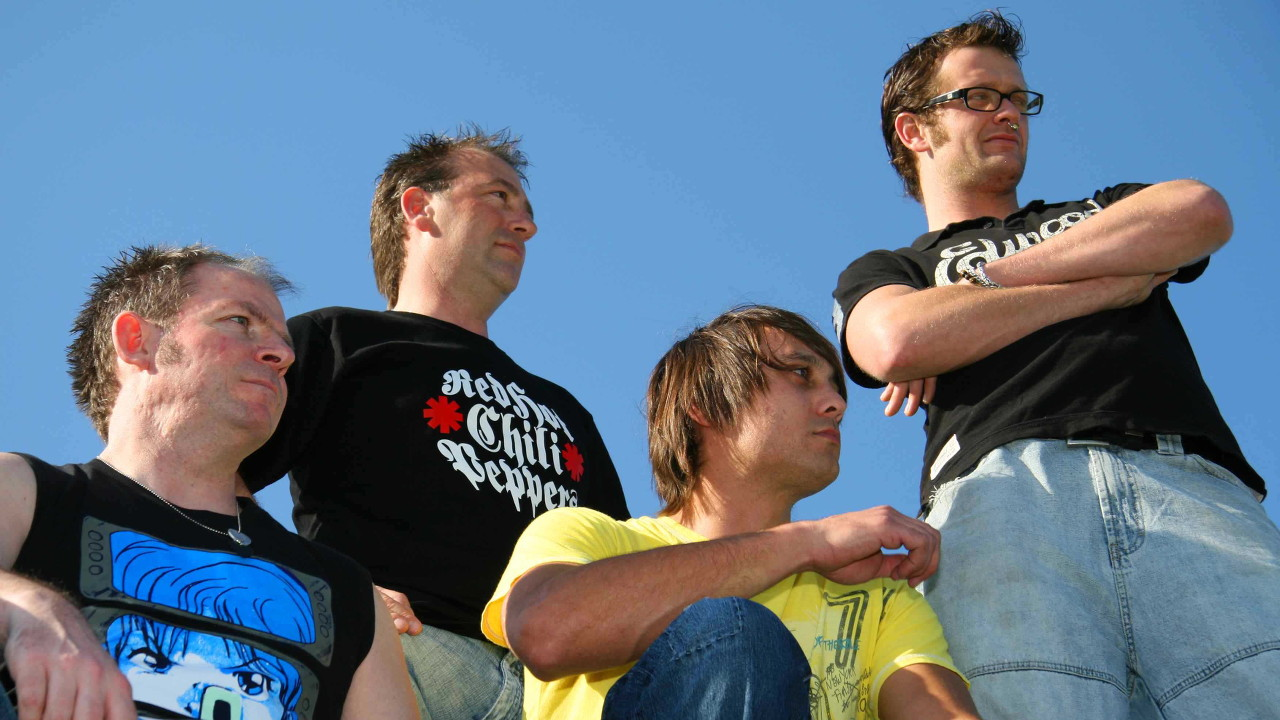
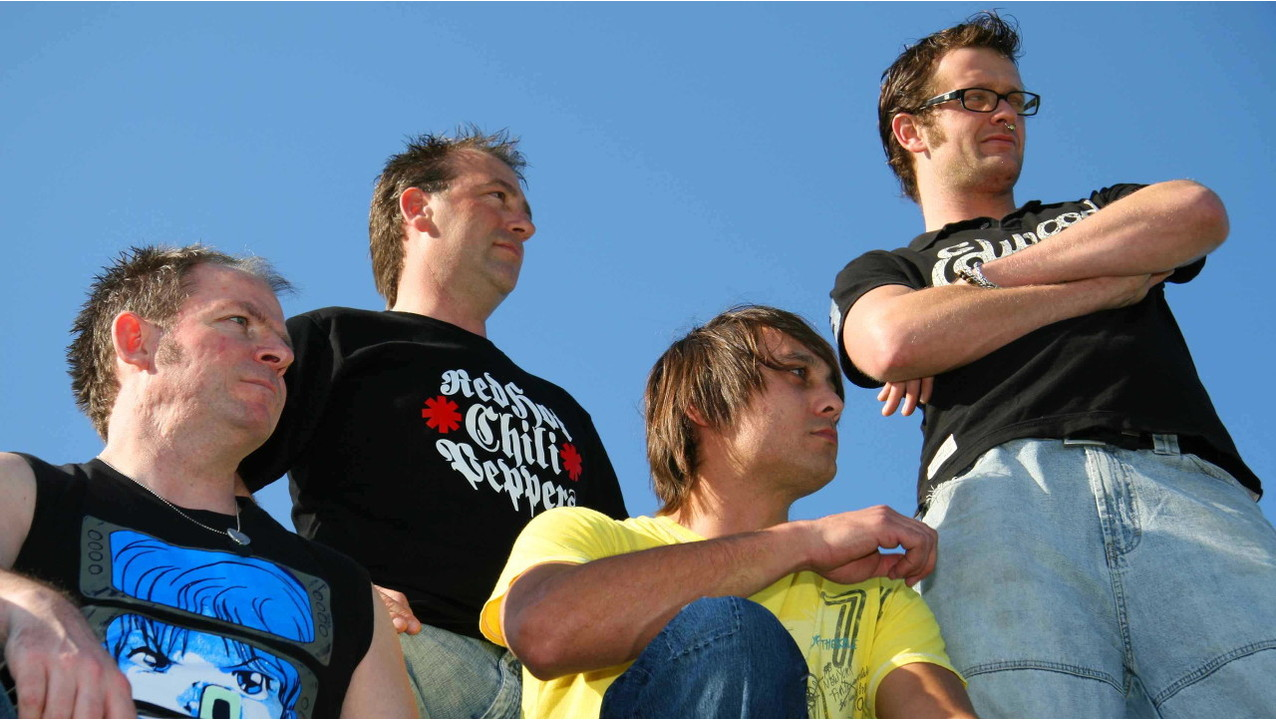
reposition hero image text
resized band promo shot 1

diff --git a/index.html b/index.html
@@ -52,16 +52,6 @@
       </div>
     </nav>
 
-    <!-- <header class="masthead img-fluid">
-      <div class="overlay">
-        <div class="container">
-          <h1 class="display-1 text-white">Sector 7G</h1>
-          <h2 class="display-4 text-white">Gold Coast Covers Band</h2>
-          <h4 class="dislpay-4 text-white">Site Under Construction</h4>
-        </div>
-      </div>
-    </header> -->
-
   <header class="masthead img-fluid">
   <!-- <div class="overlay"> -->
     <div id="carouselExampleIndicators" class="carousel slide" data-ride="carousel">
@@ -70,18 +60,14 @@
           <li data-target="#carouselExampleIndicators" data-slide-to="0" class="active"></li>
           <li data-target="#carouselExampleIndicators" data-slide-to="1"></li>
           <li data-target="#carouselExampleIndicators" data-slide-to="2"></li>
-          <li data-target="#carouselExampleIndicators" data-slide-to="3"></li>
-          <li data-target="#carouselExampleIndicators" data-slide-to="4"></li>
-          <li data-target="#carouselExampleIndicators" data-slide-to="5"></li>
         </ol>
         <div class="carousel-inner" role="listbox">
+          <div class="carousel-caption">
+            <h1 class="display-1 text-white">Sector 7G</h1>
+            <h2 class="display-4 text-white">Gold Coast Covers Band</h2>
+          </div>
           <div class="carousel-item active">
             <img class="d-block img-fluid" src="img/band/promo_shot1.jpg" alt="First slide">
-            <div class="carousel-caption">
-              <h1 class="display-1 text-white">Sector 7G</h1>
-              <h2 class="display-4 text-white">Gold Coast Covers Band</h2>
-              <h4 class="dislpay-4 text-white">Site Under Construction</h4>
-            </div>
           </div>
 
           <div class="carousel-item">

diff --git a/css/one-page-wonder.css b/css/one-page-wonder.css
@@ -38,6 +38,14 @@ header.masthead > .overlay {
   width: 100%;
 }
 
+.carousel-caption {
+  bottom: 35%;
+}
+
+.carousel-caption h1, h2 {
+  text-shadow: 1px 1px rgba(100, 100, 100, 0.4);
+}
+
 .carousel-control-next-icon, .carousel-control-prev-icon {
     display: inline-block;
     width: 50px;
